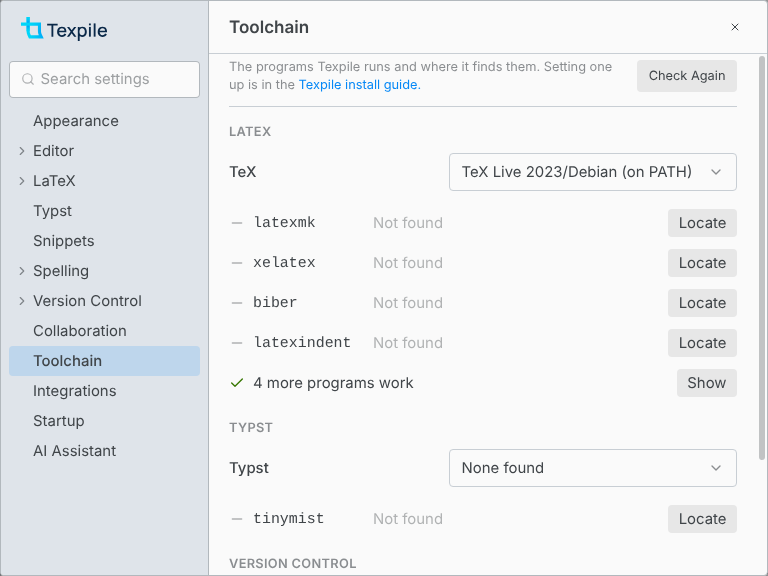
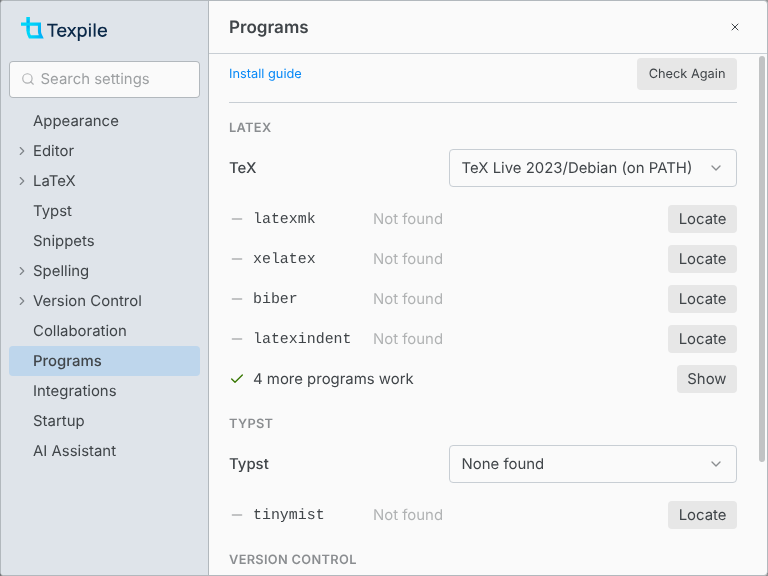
feat(editor): toolchain page renamed programs

diff --git a/apps/texpile-editor/src/lib/modals/window/PrefsToolchainPanel.svelte b/apps/texpile-editor/src/lib/modals/window/PrefsToolchainPanel.svelte
@@ -27,13 +27,10 @@
 </script>
 
 <div class="border-surface-200-800 flex items-center justify-between gap-3 border-b pt-1 pb-3">
-	<p class="text-muted text-xs">
-		{m.prefs_toolchain_intro()}
-		{m.prefs_toolchain_docs_hint()}
-		<a class="anchor" href="https://texpile.com/docs/installation" target="_blank" rel="noopener noreferrer"
-			>{m.prefs_toolchain_install_guide()}</a
-		>
-	</p>
+	<!-- always shown, so there is one place to go when a program is missing -->
+	<a class="anchor text-xs" href="https://texpile.com/docs/installation" target="_blank" rel="noopener noreferrer"
+		>{m.prefs_toolchain_install_guide()}</a
+	>
 	<button class="btn preset-tonal shrink-0 text-xs" onclick={() => void probe.run()} disabled={probe.probing}>
 		{probe.probing ? m.prefs_toolchain_checking() : m.prefs_toolchain_recheck()}
 	</button>

diff --git a/landing/src/routes/docs/[...slug]/+page.svelte b/landing/src/routes/docs/[...slug]/+page.svelte
@@ -30,7 +30,7 @@
 	// a section of several pages has no page of its own to take a blurb from
 	const SECTION_BLURBS: Record<string, string> = {
 		'Editor tips': 'Selecting whole blocks, pasting from Word or Excel, dropping in files, and spell check.',
-		Workflow: 'Projects and files, the PDF and the toolchain, and Git.',
+		Workflow: 'Projects and files, the PDF and the programs that build it, and Git.',
 		'Review and collaboration': 'Comments, suggestions, and editing together live.',
 		'AI and integrations': 'AI agents, MCP, Zotero, and citing by DOI.',
 		Customize: 'Preferences, themes, and keyboard shortcuts.',

diff --git a/apps/texpile-editor/src/lib/modals/window/integrations/PrefsIntegrationsPanel.svelte b/apps/texpile-editor/src/lib/modals/window/integrations/PrefsIntegrationsPanel.svelte
@@ -1,5 +1,5 @@
 <script lang="ts">
-	// external apps Texpile talks to, as opposed to Toolchain's programs it runs. One on/off per integration
+	// external apps Texpile talks to, as opposed to the programs it runs. One on/off per integration
 	import { settings, updateSettings } from '$lib/settings';
 	import PrefsSwitchRow from '../rows/PrefsSwitchRow.svelte';
 </script>

diff --git a/apps/texpile-editor/tests/integration/preferences.spec.ts b/apps/texpile-editor/tests/integration/preferences.spec.ts
@@ -34,7 +34,7 @@ const TABS = [
 	'Spelling',
 	'Version Control',
 	'Collaboration',
-	'Toolchain',
+	'Programs',
 	'Integrations',
 	'Startup',
 	'AI Assistant'

diff --git a/docs/preferences.md b/docs/preferences.md
@@ -13,28 +13,28 @@ Preferences holds the settings for the whole app. Open it with Ctrl , (Cmd , on 
 
 ![The Appearance tab of Preferences, with the list of tabs on the left](../landing/src/lib/assets/showcase/docs/app/preferences-appearance.png)
 
-| Setting                                                  | Note                                                                                                                                 |
-| -------------------------------------------------------- | ------------------------------------------------------------------------------------------------------------------------------------ |
-| Appearance › Language                                    | Changes the interface only. Spell check follows each document's own language.                                                        |
-| Editor › Keybindings                                     | Vim and Emacs work in the source editor only.                                                                                        |
-| Editor › Justify text, Hyphenate words                   | Apply to the visual editor only. The file and the compiled document stay as they are.                                                |
-| Editor › Auto-fraction, Tab out of brackets, Matrix keys | Source editor math only. See [Math typing helpers](typing.md#math-typing-helpers).                                                   |
-| Spelling › Check spelling and grammar                    | Off by default.                                                                                                                      |
-| Spelling › This folder › Language                        | The same choice as Spelling › Folder Language. Needs an open folder.                                                                 |
-| Spelling › Default language                              | For documents that name no language, in folders set to Automatic. English by default.                                                |
-| Spelling › Custom Dictionary                             | One list per language. Separate several words with spaces, commas, or semicolons.                                                    |
-| Spelling › Grammar rules                                 | All off by default. Shown while English is the default language or the open folder is checked in English.                            |
-| Version Control › Autofetch                              | Fetches from the default remote every 3 minutes.                                                                                     |
-| Version Control › Git Identity                           | Read-only. Change it with `git config` in a terminal.                                                                                |
-| Version Control › Keep version history                   | Keeps a copy of each save for 30 days.                                                                                               |
-| Collaboration › Display name                             | Shown in shared sessions and on your comments. Left empty, you show as Host or Guest.                                                |
-| Toolchain › Folders                                      | Texpile looks here first for every program it runs, including your compile command. See [Toolchain](build-and-preview/toolchain.md). |
-| Toolchain › Distribution                                 | Which TeX distribution, and which tinymist, to use when more than one is found.                                                      |
-| Integrations › Find and cite papers online               | Looks papers up through Crossref, DataCite, doi.org, Open Library, and PubMed.                                                       |
-| AI Assistant › Disable all AI integrations in Texpile    | Turns off Refine, the Agent tab and the MCP server. Your choices below it stay as they were.                                         |
-| AI Assistant › MCP server                                | Lets an AI assistant such as Claude Code see your open files. See [MCP server](ai-assistant/mcp.md).                                 |
-| AI Assistant › Refine with                               | Only agents Texpile finds can be picked. To add another, add its folder under Toolchain › Folders.                                   |
-| AI Assistant › Agent tab                                 | Untick every agent to remove the tab.                                                                                                |
+| Setting                                                  | Note                                                                                                                                |
+| -------------------------------------------------------- | ----------------------------------------------------------------------------------------------------------------------------------- |
+| Appearance › Language                                    | Changes the interface only. Spell check follows each document's own language.                                                       |
+| Editor › Keybindings                                     | Vim and Emacs work in the source editor only.                                                                                       |
+| Editor › Justify text, Hyphenate words                   | Apply to the visual editor only. The file and the compiled document stay as they are.                                               |
+| Editor › Auto-fraction, Tab out of brackets, Matrix keys | Source editor math only. See [Math typing helpers](typing.md#math-typing-helpers).                                                  |
+| Spelling › Check spelling and grammar                    | Off by default.                                                                                                                     |
+| Spelling › This folder › Language                        | The same choice as Spelling › Folder Language. Needs an open folder.                                                                |
+| Spelling › Default language                              | For documents that name no language, in folders set to Automatic. English by default.                                               |
+| Spelling › Custom Dictionary                             | One list per language. Separate several words with spaces, commas, or semicolons.                                                   |
+| Spelling › Grammar rules                                 | All off by default. Shown while English is the default language or the open folder is checked in English.                           |
+| Version Control › Autofetch                              | Fetches from the default remote every 3 minutes.                                                                                    |
+| Version Control › Git Identity                           | Read-only. Change it with `git config` in a terminal.                                                                               |
+| Version Control › Keep version history                   | Keeps a copy of each save for 30 days.                                                                                              |
+| Collaboration › Display name                             | Shown in shared sessions and on your comments. Left empty, you show as Host or Guest.                                               |
+| Programs › Other folders                                 | Texpile looks here first for every program it runs, including your compile command. See [Programs](build-and-preview/toolchain.md). |
+| Programs › TeX and Typst                                 | Which TeX distribution and which tinymist Texpile uses. Each picker also installs Texpile's own.                                    |
+| Integrations › Find and cite papers online               | Looks papers up through Crossref, DataCite, doi.org, Open Library, and PubMed.                                                      |
+| AI Assistant › Disable all AI integrations in Texpile    | Turns off Refine, the Agent tab and the MCP server. Your choices below it stay as they were.                                        |
+| AI Assistant › MCP server                                | Lets an AI assistant such as Claude Code see your open files. See [MCP server](ai-assistant/mcp.md).                                |
+| AI Assistant › Refine with                               | Only agents Texpile finds can be picked. To add another, add its folder under Programs › Other folders.                             |
+| AI Assistant › Agent tab                                 | Untick every agent to remove the tab.                                                                                               |
 
 ## Not in Preferences
 

diff --git a/docs/troubleshooting/README.md b/docs/troubleshooting/README.md
@@ -14,12 +14,12 @@ Find the message you see. [LaTeX](latex.md), [Typst](typst.md), [Git](git.md) an
 
 ## Programs
 
-| You see                                                  | Fix                                                                         |
-| -------------------------------------------------------- | --------------------------------------------------------------------------- |
-| A program shows **Not found** in Preferences › Toolchain | Click **Locate** and pick the program's file, or add its folder in Folders. |
-| **Found, does not run**                                  | Texpile found the program, but it fails to start. Reinstall it.             |
-| "No main file is set."                                   | Click **Set Main File**.                                                    |
-| Git features are missing                                 | [Install git](../installation/git.md).                                      |
+| You see                                                 | Fix                                                                               |
+| ------------------------------------------------------- | --------------------------------------------------------------------------------- |
+| A program shows **Not found** in Preferences › Programs | Click **Locate** and pick the program's file, or add its folder in Other folders. |
+| A program shows **Does not run.**                       | Texpile found the program and it fails to start. Reinstall it.                    |
+| "No main file is set."                                  | Click **Set Main File**.                                                          |
+| Git features are missing                                | [Install git](../installation/git.md).                                            |
 
 ## Editing
 
@@ -45,7 +45,7 @@ Find the message you see. [LaTeX](latex.md), [Typst](typst.md), [Git](git.md) an
 
 | You see                           | Fix                                                                                           |
 | --------------------------------- | --------------------------------------------------------------------------------------------- |
-| An agent shows **Not found**      | Install it, or add its folder in Preferences › Toolchain › Folders.                           |
+| An agent shows **Not found**      | Install it, or add its folder in Preferences › Programs › Other folders.                      |
 | No Agent tab                      | Tick an agent in Preferences › AI Assistant › Agent tab.                                      |
 | "Not running: …" under MCP server | Another program uses the port. See [Change the port](../ai-assistant/mcp.md#change-the-port). |
 | "The text from … was not used"    | The agent's result broke a rule. The note under it says which.                                |

diff --git a/docs/troubleshooting/latex.md b/docs/troubleshooting/latex.md
@@ -21,9 +21,9 @@ order: 1
 
 ## Live preview
 
-| You see                                                   | Fix                                                                                                             |
-| --------------------------------------------------------- | --------------------------------------------------------------------------------------------------------------- |
-| "lualatex was not found, so the live preview cannot run." | Click **Check Toolchain** and install or locate lualatex.                                                       |
-| "Live mode needs LaTeX 2021-06 or newer."                 | Update TeX Live, MacTeX or MiKTeX.                                                                              |
-| **preview error**                                         | Open Problems to see the error. The live preview runs lualatex, so a document that needs pdflatex uses Compile. |
-| Live mode cannot be turned on                             | You are hosting a shared session. End it first.                                                                 |
+| You see                                   | Fix                                                                                                             |
+| ----------------------------------------- | --------------------------------------------------------------------------------------------------------------- |
+| "lualatex is not installed."              | Click **Check Programs**. Install TeX Live from the **TeX** picker, or click **Locate** beside lualatex.        |
+| "Live mode needs LaTeX 2021-06 or newer." | Update TeX Live, MacTeX or MiKTeX.                                                                              |
+| **preview error**                         | Open Problems to see the error. The live preview runs lualatex, so a document that needs pdflatex uses Compile. |
+| Live mode cannot be turned on             | You are hosting a shared session. End it first.                                                                 |

diff --git a/docs/build-and-preview/toolchain.md b/docs/build-and-preview/toolchain.md
@@ -1,19 +1,19 @@
 ---
-description: The Toolchain panel in Preferences shows the programs Texpile runs and where it finds them. It picks the TeX and Typst install Texpile uses and installs TeX Live and tinymist.
+description: The Programs page in Preferences shows the programs Texpile runs and where it finds them. It picks the TeX and Typst install Texpile uses and installs TeX Live and tinymist.
 order: 1
 ---
 
-# Toolchain
+# Programs
 
-**File › Preferences… › Toolchain** shows the programs Texpile runs and where it finds them.
+**File › Preferences… › Programs** shows the programs Texpile runs and where it finds them.
 
-![The Toolchain tab of Preferences with the TeX picker, four LaTeX programs marked Not found, 4 more programs work, and the Typst picker](../../landing/src/lib/assets/showcase/docs/app/preferences-toolchain.png)
+![The Programs page of Preferences with the TeX picker, four LaTeX programs marked Not found, 4 more programs work, and the Typst picker](../../landing/src/lib/assets/showcase/docs/app/preferences-toolchain.png)
 
 Each language has a picker for the install Texpile uses: **TeX** for LaTeX and **Typst** for Typst. Under it, a program that is missing or does not run gets a row of its own. The programs that work fold into one line. **Show** lists them with their versions.
 
 Texpile needs only the programs your commands call. The default compile command needs latexmk and lualatex. Live preview needs lualatex, **Format Document** needs latexindent, and jumping between the text and the PDF needs synctex.
 
-Texpile reads your PATH once, when it starts: restart it after you change PATH. Folders you add here apply at once.
+Texpile reads your PATH once, when it starts: restart it after you change PATH. Folders you add under **Other folders** apply at once.
 
 ## The Set Up dialog
 

diff --git a/docs/ai-assistant/agent-panel.md b/docs/ai-assistant/agent-panel.md
@@ -27,8 +27,8 @@ Revert covers text files up to 1 MB and works until you close the window.
 
 ## Messages
 
-| You see                  | Fix                                                                                        |
-| ------------------------ | ------------------------------------------------------------------------------------------ |
-| {agent} is not signed in | Run the command shown in a terminal. **Open Terminal** opens one.                          |
-| {agent} was not found    | Install it, or add its folder in `Preferences › Toolchain › Folders`. Click **Try Again**. |
-| {agent} stopped          | The note shows its last message. Click **Try Again**.                                      |
+| You see                  | Fix                                                                                             |
+| ------------------------ | ----------------------------------------------------------------------------------------------- |
+| {agent} is not signed in | Run the command shown in a terminal. **Open Terminal** opens one.                               |
+| {agent} was not found    | Install it, or add its folder in `Preferences › Programs › Other folders`. Click **Try Again**. |
+| {agent} stopped          | The note shows its last message. Click **Try Again**.                                           |

diff --git a/docs/troubleshooting/typst.md b/docs/troubleshooting/typst.md
@@ -10,7 +10,7 @@ order: 2
 | You see                                                     | Fix                                                                                             |
 | ----------------------------------------------------------- | ----------------------------------------------------------------------------------------------- |
 | "tinymist is not installed."                                | Click **Set Up Typst**, or [install it yourself](../installation/typst/README.md).              |
-| tinymist shows **Found, does not run**                      | Preferences › Toolchain › **Reinstall**.                                                        |
+| tinymist shows **Does not run.**                            | In Preferences › Programs, open the **Typst** picker and install tinymist from Texpile.         |
 | The preview says Connecting or Reconnecting for a long time | Restart Texpile.                                                                                |
 | "Nothing to preview yet."                                   | The document has an error. Fix it in Problems.                                                  |
 | The preview shows another file than the one open            | The preview shows the main file. Right-click the open file › **Set as Main File**.              |

diff --git a/docs/installation/latex/windows.md b/docs/installation/latex/windows.md
@@ -10,4 +10,4 @@ order: 1
 
 Run [install-tl-windows.exe](https://mirror.ctan.org/systems/texlive/tlnet/install-tl-windows.exe) (recommended) from CTAN for TeX Live, or install [MiKTeX](https://miktex.org/download). Restart Texpile if it is open.
 
-You only need one of the distros above. In the rare case where you have multiple TeX distributions installed, you can pick one with the **TeX** picker in Preferences › Toolchain.
+You only need one of the distros above. In the rare case where you have multiple TeX distributions installed, you can pick one with the **TeX** picker in Preferences › Programs.

diff --git a/docs/ai-assistant/README.md b/docs/ai-assistant/README.md
@@ -28,7 +28,7 @@ Install the agent and sign in outside Texpile, then pick it in `Preferences › 
 
 You can also enter your own command. For the Agent tab it must speak the Agent Client Protocol, such as `opencode acp`. For Refine it reads a request and prints the new text, such as `ollama run llama3.1`.
 
-If an agent shows **Not found**, add its folder in `Preferences › Toolchain › Folders`, then reopen Preferences.
+If an agent shows **Not found**, add its folder in `Preferences › Programs › Other folders`, then reopen Preferences.
 
 ## Turn off AI
 
